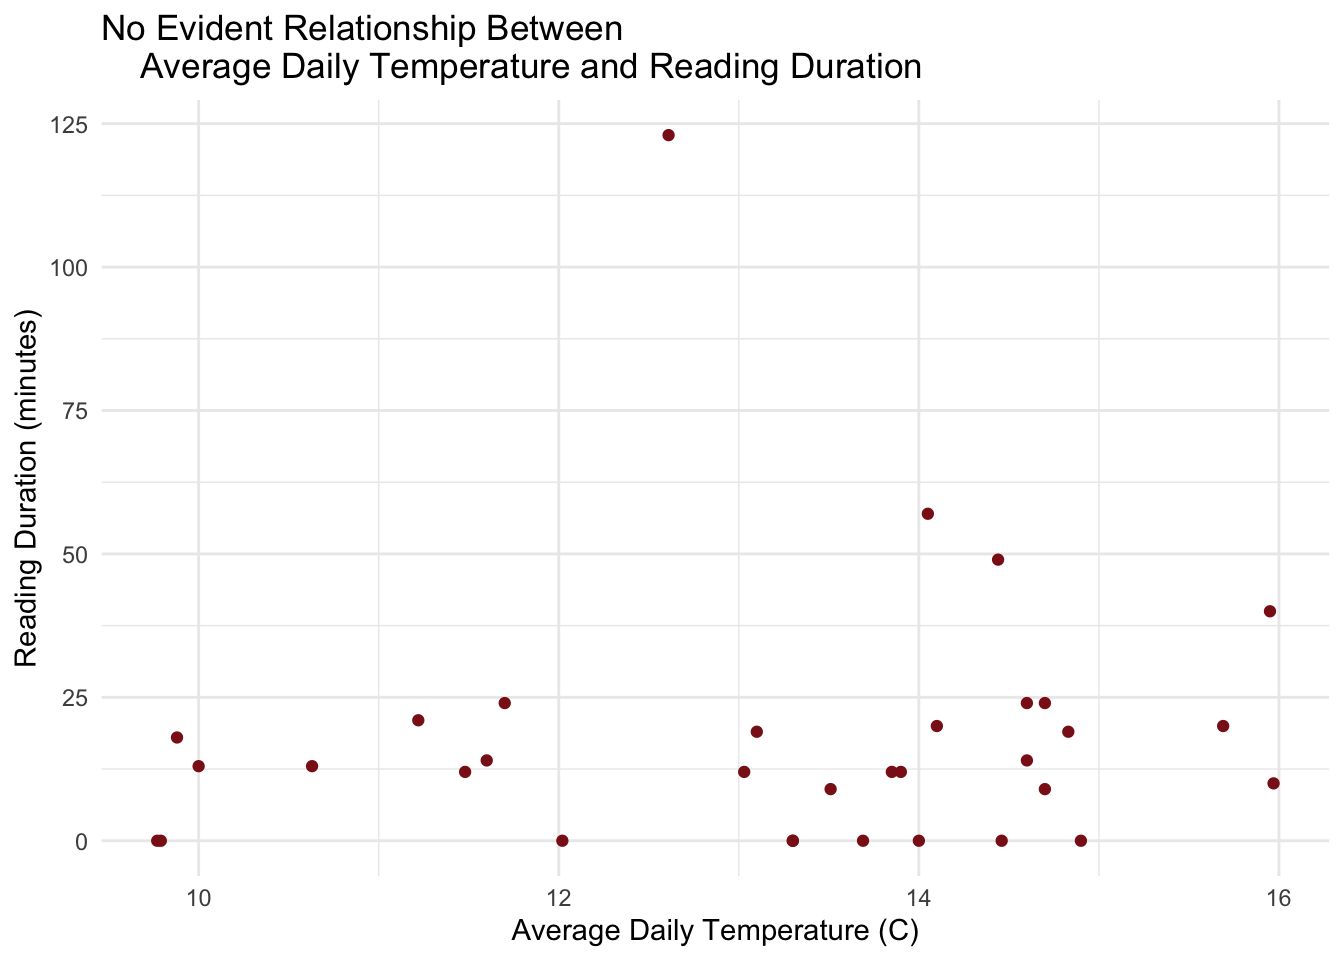
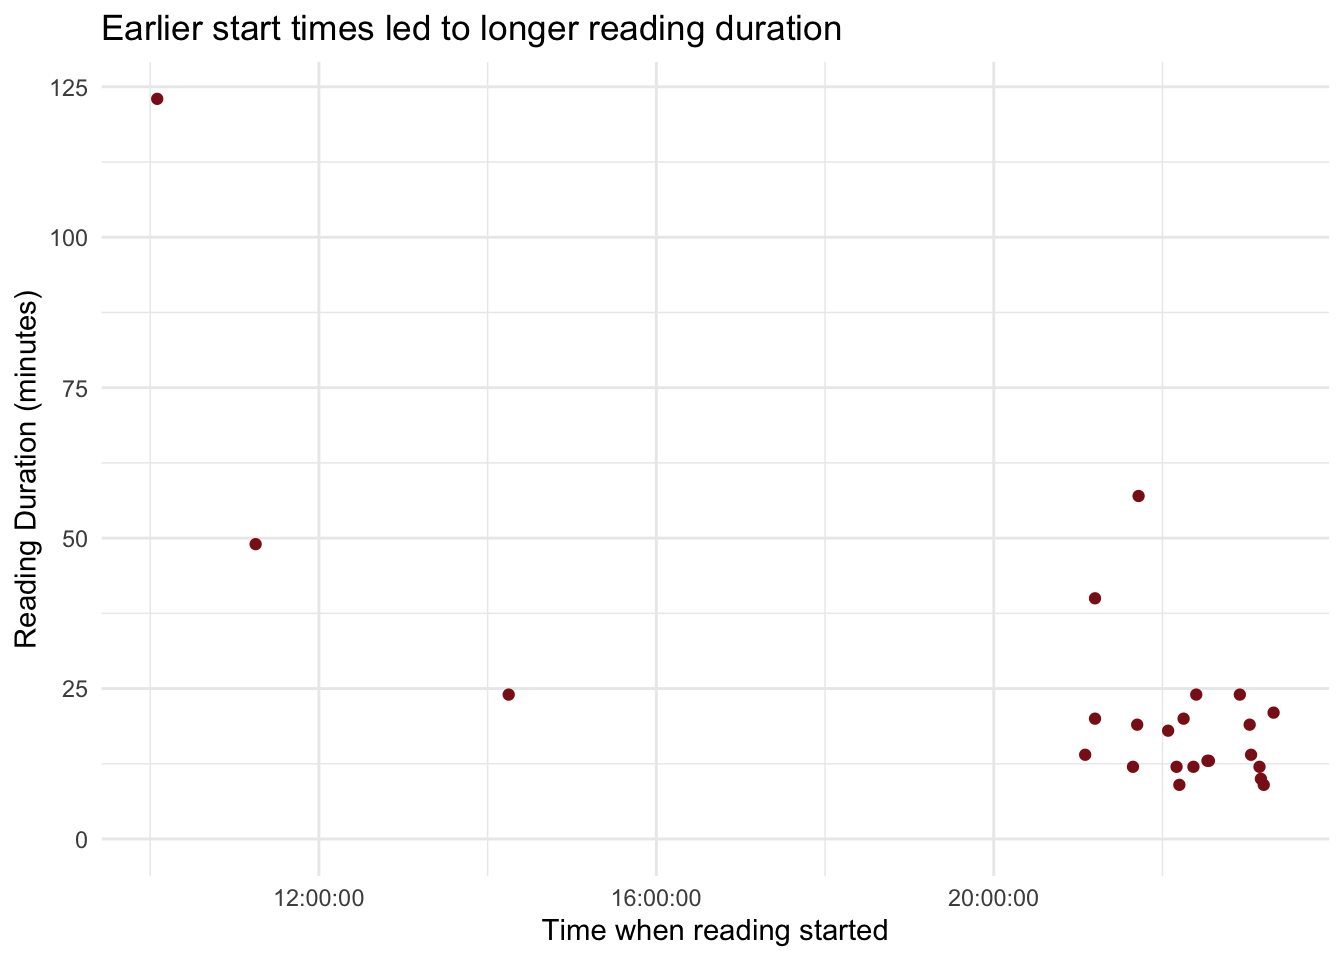
updating artist statement

diff --git a/Code/homework_03.html b/Code/homework_03.html
@@ -371,21 +371,20 @@ sample estimates:
 </div>
 </div>
 </section>
-<section id="visualization-of-temperature-continuous-predictor-variable-vs-reading-duration-response-variable" class="level4">
-<h4 class="anchored" data-anchor-id="visualization-of-temperature-continuous-predictor-variable-vs-reading-duration-response-variable">Visualization of temperature (continuous predictor variable) vs reading duration (response variable)</h4>
+<section id="visualization-of-start-time-continuous-predictor-variable-vs-reading-duration-response-variable" class="level4">
+<h4 class="anchored" data-anchor-id="visualization-of-start-time-continuous-predictor-variable-vs-reading-duration-response-variable">Visualization of start time (continuous predictor variable) vs reading duration (response variable)</h4>
 <div class="cell">
 <div class="code-copy-outer-scaffold"><div class="sourceCode cell-code" id="cb11"><pre class="sourceCode r code-with-copy"><code class="sourceCode r"><span id="cb11-1"><a href="#cb11-1" aria-hidden="true" tabindex="-1"></a><span class="co"># base layer: ggplot</span></span>
 <span id="cb11-2"><a href="#cb11-2" aria-hidden="true" tabindex="-1"></a><span class="fu">ggplot</span>(<span class="at">data =</span> reading_data_clean, <span class="co"># starting with my data clean</span></span>
-<span id="cb11-3"><a href="#cb11-3" aria-hidden="true" tabindex="-1"></a>       <span class="fu">aes</span>(<span class="at">x =</span> average_daily_temperature_c, <span class="co"># average daily temperature on the x axis</span></span>
+<span id="cb11-3"><a href="#cb11-3" aria-hidden="true" tabindex="-1"></a>       <span class="fu">aes</span>(<span class="at">x =</span> start_time, <span class="co"># average daily temperature on the x axis</span></span>
 <span id="cb11-4"><a href="#cb11-4" aria-hidden="true" tabindex="-1"></a>           <span class="at">y =</span> duration_minutes)) <span class="sc">+</span>  <span class="co"># reading duration on the y axis</span></span>
 <span id="cb11-5"><a href="#cb11-5" aria-hidden="true" tabindex="-1"></a>  <span class="fu">geom_point</span>(<span class="at">color =</span> <span class="st">"firebrick4"</span>) <span class="sc">+</span> <span class="co"># changing the color of the points</span></span>
 <span id="cb11-6"><a href="#cb11-6" aria-hidden="true" tabindex="-1"></a>  <span class="fu">labs</span>(</span>
-<span id="cb11-7"><a href="#cb11-7" aria-hidden="true" tabindex="-1"></a>    <span class="at">x =</span> <span class="st">"Average Daily Temperature (C)"</span>, <span class="co"># changing x-axis label</span></span>
+<span id="cb11-7"><a href="#cb11-7" aria-hidden="true" tabindex="-1"></a>    <span class="at">x =</span> <span class="st">"Time when reading started"</span>, <span class="co"># changing x-axis label</span></span>
 <span id="cb11-8"><a href="#cb11-8" aria-hidden="true" tabindex="-1"></a>    <span class="at">y =</span> <span class="st">"Reading Duration (minutes)"</span>, <span class="co"># changing y-axis label</span></span>
-<span id="cb11-9"><a href="#cb11-9" aria-hidden="true" tabindex="-1"></a>    <span class="at">title =</span> <span class="st">"No Evident Relationship Between   </span></span>
-<span id="cb11-10"><a href="#cb11-10" aria-hidden="true" tabindex="-1"></a><span class="st">    Average Daily Temperature and Reading Duration"</span> <span class="co"># creating a title for my plot</span></span>
-<span id="cb11-11"><a href="#cb11-11" aria-hidden="true" tabindex="-1"></a>  ) <span class="sc">+</span></span>
-<span id="cb11-12"><a href="#cb11-12" aria-hidden="true" tabindex="-1"></a>  <span class="fu">theme_minimal</span>() <span class="co"># changing the ggplot theme to dark</span></span></code></pre></div><button title="Copy to Clipboard" class="code-copy-button"><i class="bi"></i></button></div>
+<span id="cb11-9"><a href="#cb11-9" aria-hidden="true" tabindex="-1"></a>    <span class="at">title =</span> <span class="st">"Earlier start times led to longer reading duration"</span> <span class="co"># creating a title for my plot</span></span>
+<span id="cb11-10"><a href="#cb11-10" aria-hidden="true" tabindex="-1"></a>  ) <span class="sc">+</span></span>
+<span id="cb11-11"><a href="#cb11-11" aria-hidden="true" tabindex="-1"></a>  <span class="fu">theme_minimal</span>() <span class="co"># changing the ggplot theme to dark</span></span></code></pre></div><button title="Copy to Clipboard" class="code-copy-button"><i class="bi"></i></button></div>
 <div class="cell-output-display">
 <div>
 <figure class="figure">
@@ -400,7 +399,7 @@ sample estimates:
 <section id="b.-captions" class="level2">
 <h2 class="anchored" data-anchor-id="b.-captions">b. Captions</h2>
 <p><strong>Figure 1: There is no obvious difference in central tendancies of reading duration on school days vs non school days.</strong> Median line is shown for the reading duration on non school days (green) and school days (pink). Upper and lower quartiles are shown above and below the median respectivley. Points represent individual observations of reading duration on non school days (green) and school days (pink). Source: personal data collected by me, Sophie Pardehpoosh</p>
-<p><strong>Figure 2: There is no obvious relationship between average daily temperature and reading duration.</strong> Red points represent individual observations of reading duration vs the average temperature that day. Source: personal data collected by me, Sophie Pardehpoosh</p>
+<p><strong>Figure 2: Reading duration was longer when start time was earlier in the day.</strong> Red points represent individual observations of reading duration vs the time that reading began. Source: personal data collected by me, Sophie Pardehpoosh</p>
 </section>
 </section>
 <section id="problem-3.-affective-visualization" class="level1">
@@ -423,7 +422,7 @@ sample estimates:
 </section>
 <section id="d.-artist-statement" class="level2">
 <h2 class="anchored" data-anchor-id="d.-artist-statement">d.&nbsp;Artist statement</h2>
-<p>I am showing how much I read (in minutes) on school days vs non school days, which book I’m reading, and how many assignments I am working on that day.</p>
+<p>I am showing how much I read (in minutes) on school days vs non school days, which book I’m reading, and how many assignments I am working on that day. I found digital art influenctial for my affective visualization. I have noticed a rise in visual media recently, and wanted to try this to display my personal data. My visualization is drawn and assembled on my tablet with Procreate and Canva. I created this work by drafting components on procreate, and putting them together on canva. Height and width of books were determined using a graph that was removed after.</p>
 </section>
 <section id="e.-prep-materials-to-share-in-class" class="level2">
 <h2 class="anchored" data-anchor-id="e.-prep-materials-to-share-in-class">e. Prep materials to share in class</h2>
